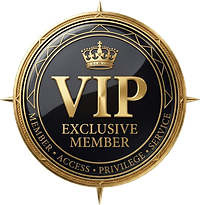
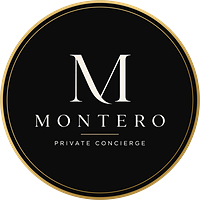
Круглый знак заменён на логотип Montero

diff --git a/index.html b/index.html
@@ -18,10 +18,10 @@
 <header class="nav" id="nav">
   <div class="nav-in">
     <a class="brand" href="#home" data-scroll aria-label="На главную" data-i18n-aria="aria.home">
-      <img class="seal" src="assets/img/seal-160.png?v=6d7bc84d"
-           srcset="assets/img/seal-88.png?v=c100941f 88w, assets/img/seal-120.png?v=caf96b39 120w, assets/img/seal-160.png?v=6d7bc84d 160w, assets/img/seal-200.png?v=fa6e75e7 200w, assets/img/seal-260.png?v=d98f2a1f 260w, assets/img/seal-360.png?v=476aea5b 360w, assets/img/seal-512.png?v=992dd171 512w"
+      <img class="seal" src="assets/img/seal-160.png?v=4de9834d"
+           srcset="assets/img/seal-88.png?v=8430b0af 88w, assets/img/seal-120.png?v=4110e5df 120w, assets/img/seal-160.png?v=4de9834d 160w, assets/img/seal-200.png?v=d7c5589e 200w, assets/img/seal-260.png?v=d552781d 260w, assets/img/seal-360.png?v=573eb4ec 360w, assets/img/seal-512.png?v=6c7203e1 512w"
            sizes="44px"
-           alt="" width="512" height="525" decoding="async">
+           alt="" width="512" height="512" decoding="async">
       <span class="brand-txt">
         <b>Montero</b>
         <span class="brand-rule" aria-hidden="true"></span>
@@ -653,10 +653,10 @@
         <p data-i18n="conc.p3">Конфиденциально. Персонально. Без лишних звонков, переписок и потери времени.</p>
         <p class="conc-start" data-i18n-html="conc.p4"><b>Всё начинается с одного сообщения.</b><br>Расскажите, что вам нужно. Даже если вы пока не знаете, кто именно может решить ваш вопрос, — это уже наша задача.</p>
         <div class="conc-sig">
-          <img class="seal-lg" src="assets/img/seal-160.png?v=6d7bc84d"
-           srcset="assets/img/seal-88.png?v=c100941f 88w, assets/img/seal-120.png?v=caf96b39 120w, assets/img/seal-160.png?v=6d7bc84d 160w, assets/img/seal-200.png?v=fa6e75e7 200w, assets/img/seal-260.png?v=d98f2a1f 260w, assets/img/seal-360.png?v=476aea5b 360w, assets/img/seal-512.png?v=992dd171 512w"
+          <img class="seal-lg" src="assets/img/seal-160.png?v=4de9834d"
+           srcset="assets/img/seal-88.png?v=8430b0af 88w, assets/img/seal-120.png?v=4110e5df 120w, assets/img/seal-160.png?v=4de9834d 160w, assets/img/seal-200.png?v=d7c5589e 200w, assets/img/seal-260.png?v=d552781d 260w, assets/img/seal-360.png?v=573eb4ec 360w, assets/img/seal-512.png?v=6c7203e1 512w"
            sizes="84px"
-           alt="" width="512" height="525" decoding="async">
+           alt="" width="512" height="512" decoding="async">
           <span class="conc-sig-t"><b data-i18n="conc.signName">Латинская Америка · Частный консьерж</b><i data-i18n="conc.signSub">Бразилия · ЛАТАМ · Круглосуточно</i></span>
         </div>
       </div>
@@ -740,10 +740,10 @@
 <footer class="foot">
   <div class="shell foot-in">
     <div class="foot-brand">
-      <img class="seal" src="assets/img/seal-160.png?v=6d7bc84d"
-           srcset="assets/img/seal-88.png?v=c100941f 88w, assets/img/seal-120.png?v=caf96b39 120w, assets/img/seal-160.png?v=6d7bc84d 160w, assets/img/seal-200.png?v=fa6e75e7 200w, assets/img/seal-260.png?v=d98f2a1f 260w, assets/img/seal-360.png?v=476aea5b 360w, assets/img/seal-512.png?v=992dd171 512w"
+      <img class="seal" src="assets/img/seal-160.png?v=4de9834d"
+           srcset="assets/img/seal-88.png?v=8430b0af 88w, assets/img/seal-120.png?v=4110e5df 120w, assets/img/seal-160.png?v=4de9834d 160w, assets/img/seal-200.png?v=d7c5589e 200w, assets/img/seal-260.png?v=d552781d 260w, assets/img/seal-360.png?v=573eb4ec 360w, assets/img/seal-512.png?v=6c7203e1 512w"
            sizes="44px"
-           alt="" width="512" height="525" decoding="async">
+           alt="" width="512" height="512" decoding="async">
       <span data-i18n-html="foot.brand">Бразилия <em>·</em> ЛАТАМ</span>
     </div>
     <nav class="foot-links" aria-label="Связь" data-i18n-aria="aria.contact">
@@ -763,10 +763,10 @@
 <!-- ════════ ВЫБОР ЯЗЫКА ════════ -->
 <div class="lang-gate" id="langGate" role="dialog" aria-modal="true" aria-labelledby="langTitle" hidden>
   <div class="lang-in">
-    <img class="lang-seal" src="assets/img/seal-160.png?v=6d7bc84d"
-           srcset="assets/img/seal-88.png?v=c100941f 88w, assets/img/seal-120.png?v=caf96b39 120w, assets/img/seal-160.png?v=6d7bc84d 160w, assets/img/seal-200.png?v=fa6e75e7 200w, assets/img/seal-260.png?v=d98f2a1f 260w, assets/img/seal-360.png?v=476aea5b 360w, assets/img/seal-512.png?v=992dd171 512w"
+    <img class="lang-seal" src="assets/img/seal-160.png?v=4de9834d"
+           srcset="assets/img/seal-88.png?v=8430b0af 88w, assets/img/seal-120.png?v=4110e5df 120w, assets/img/seal-160.png?v=4de9834d 160w, assets/img/seal-200.png?v=d7c5589e 200w, assets/img/seal-260.png?v=d552781d 260w, assets/img/seal-360.png?v=573eb4ec 360w, assets/img/seal-512.png?v=6c7203e1 512w"
            sizes="62px"
-           alt="" width="512" height="525" decoding="async">
+           alt="" width="512" height="512" decoding="async">
     <h2 id="langTitle" data-i18n="lang.title">Выберите язык</h2>
     <p class="lang-sub" data-i18n="lang.sub">Изменить можно в любой момент — переключатель в шапке.</p>
     <ul class="lang-list" id="langList"></ul>
